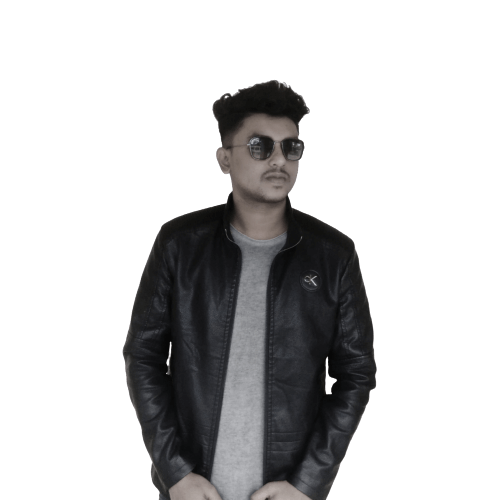
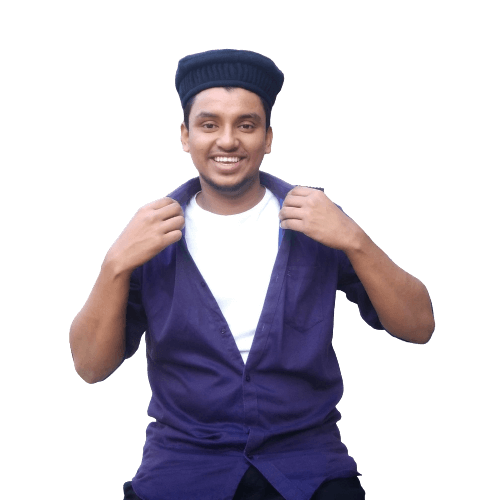
skill part add

diff --git a/index.html b/index.html
@@ -24,7 +24,7 @@
                 <div class="nav-list">
                     <ul>
                         <li><a href="#">Home</a></li>
-                        <li><a href="#">About</a></li>
+                        <li><a href="#about-sec">About</a></li>
                         <li><a href="#">Services</a></li>
                         <li><a href="#">Skills</a></li>
                         <li><a href="#">Team</a></li>
@@ -44,7 +44,7 @@
             </div>
            
             <div class="header-img">
-                <img src="images/main-banner.png" alt="">
+                <img src="images/banner.png" alt="">
             </div>
             <hr>
         </section>
@@ -53,7 +53,7 @@
     <main>
         <!-- about section start -->
 
-        <section class="about">
+        <section id="about-sec" class="about">
             <div class="title">
                 <h1>About Me</h1>
                 <p><i class="fas fa-long-arrow-alt-left"></i><span class="title-head-color">who i am</span><i class="fas fa-long-arrow-alt-right"></i></p>
@@ -98,6 +98,15 @@
             </div>
         </section>
         <!-- services section end -->
+        <!-- my skills section -->
+        <section class="skills">
+            <div class="title">
+                <h1>My Skills</h1>
+                <p><i class="fas fa-long-arrow-alt-left"></i><span class="title-head-color">what i know</span><i class="fas fa-long-arrow-alt-right"></i></p>
+            </div>
+            
+
+        </section>
 
     </main>
 </body>

diff --git a/style.css b/style.css
@@ -9,16 +9,17 @@
     /* header style part */
 .nav-items{
     display: flex;
+    background-color: black;
     justify-content: space-around;
     align-items: center;
     font-size:20px;
 }
 .logo a{
     text-decoration: none;
-    color:black;
+    color:white;
 }
 .logo-color{
-    color: orange;
+    color:orange;
 }
 .nav-list ul{
     display: flex;
@@ -30,7 +31,7 @@
 }
 .nav-list ul li a{
     text-decoration: none;
-    color: black;
+    color: white;
 }
 .nav-list ul li a:hover{
     color:orange;
@@ -38,9 +39,11 @@
 }
 /* header banner */
 .header-row{
+    position: relative;
     display: flex;
     align-items: center;
     justify-content: space-around;
+
     width: 100%;
 }
 .heder-ditails{
@@ -104,6 +107,7 @@
 
 .services-Details{
     background-color: black;
+    margin: 100px 0;
     padding: 100px 0;
 
 }
@@ -141,6 +145,11 @@
     transition: 0.5s
 }
 /* services section end */
+/* skill section */
+.skills{
+    
+
+}
 
 
 
